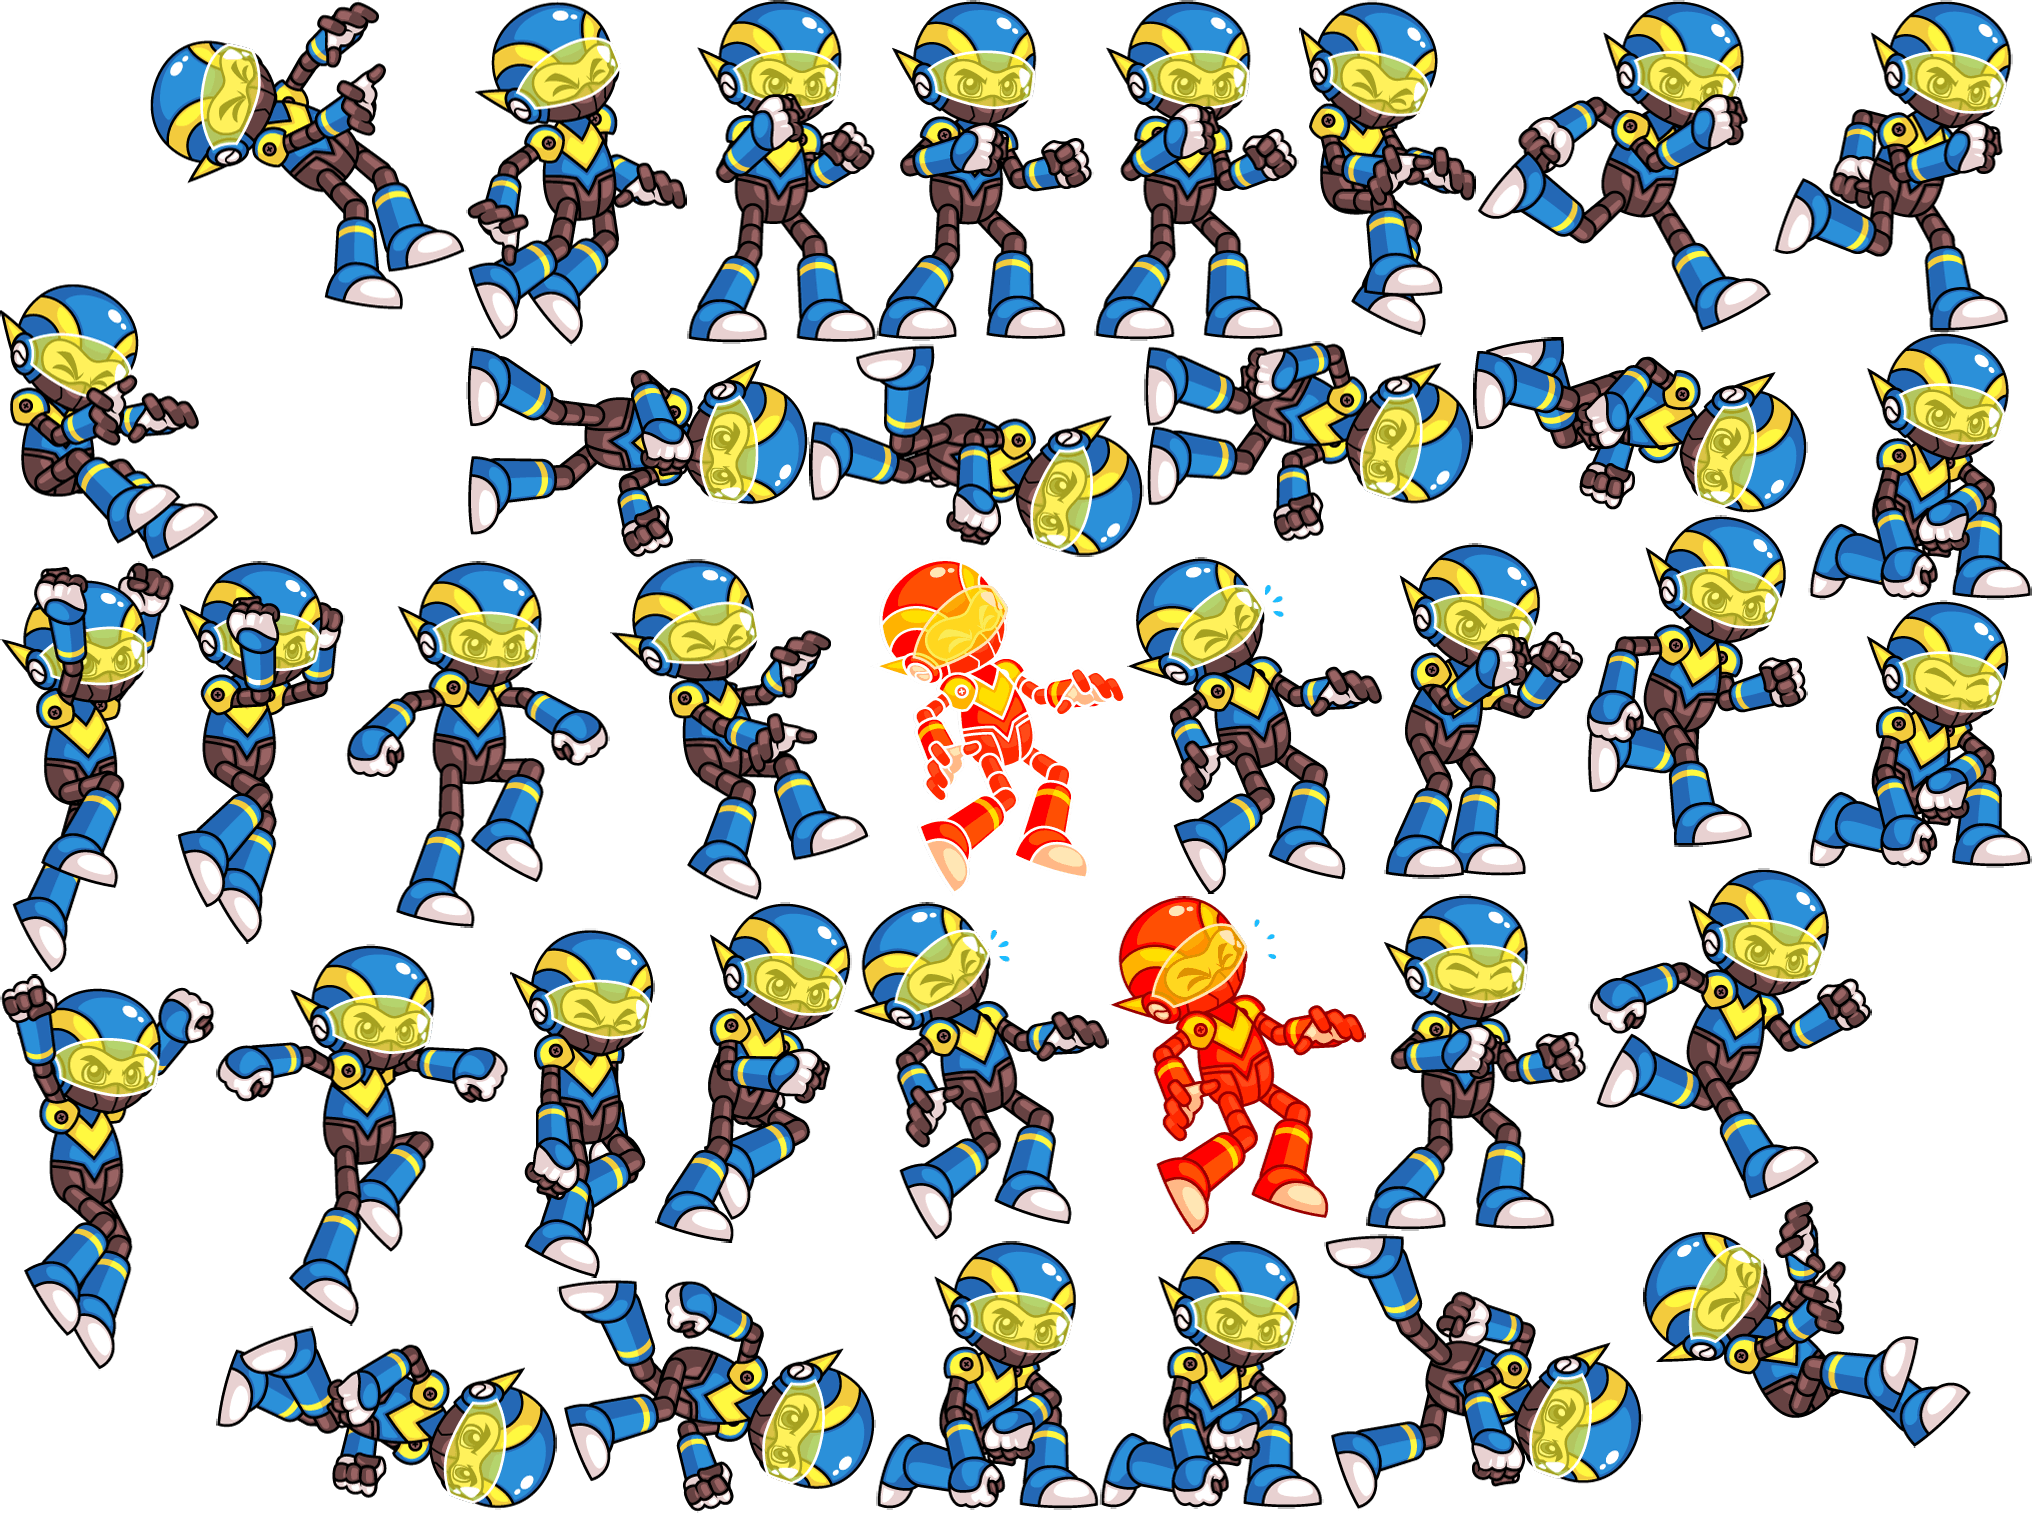
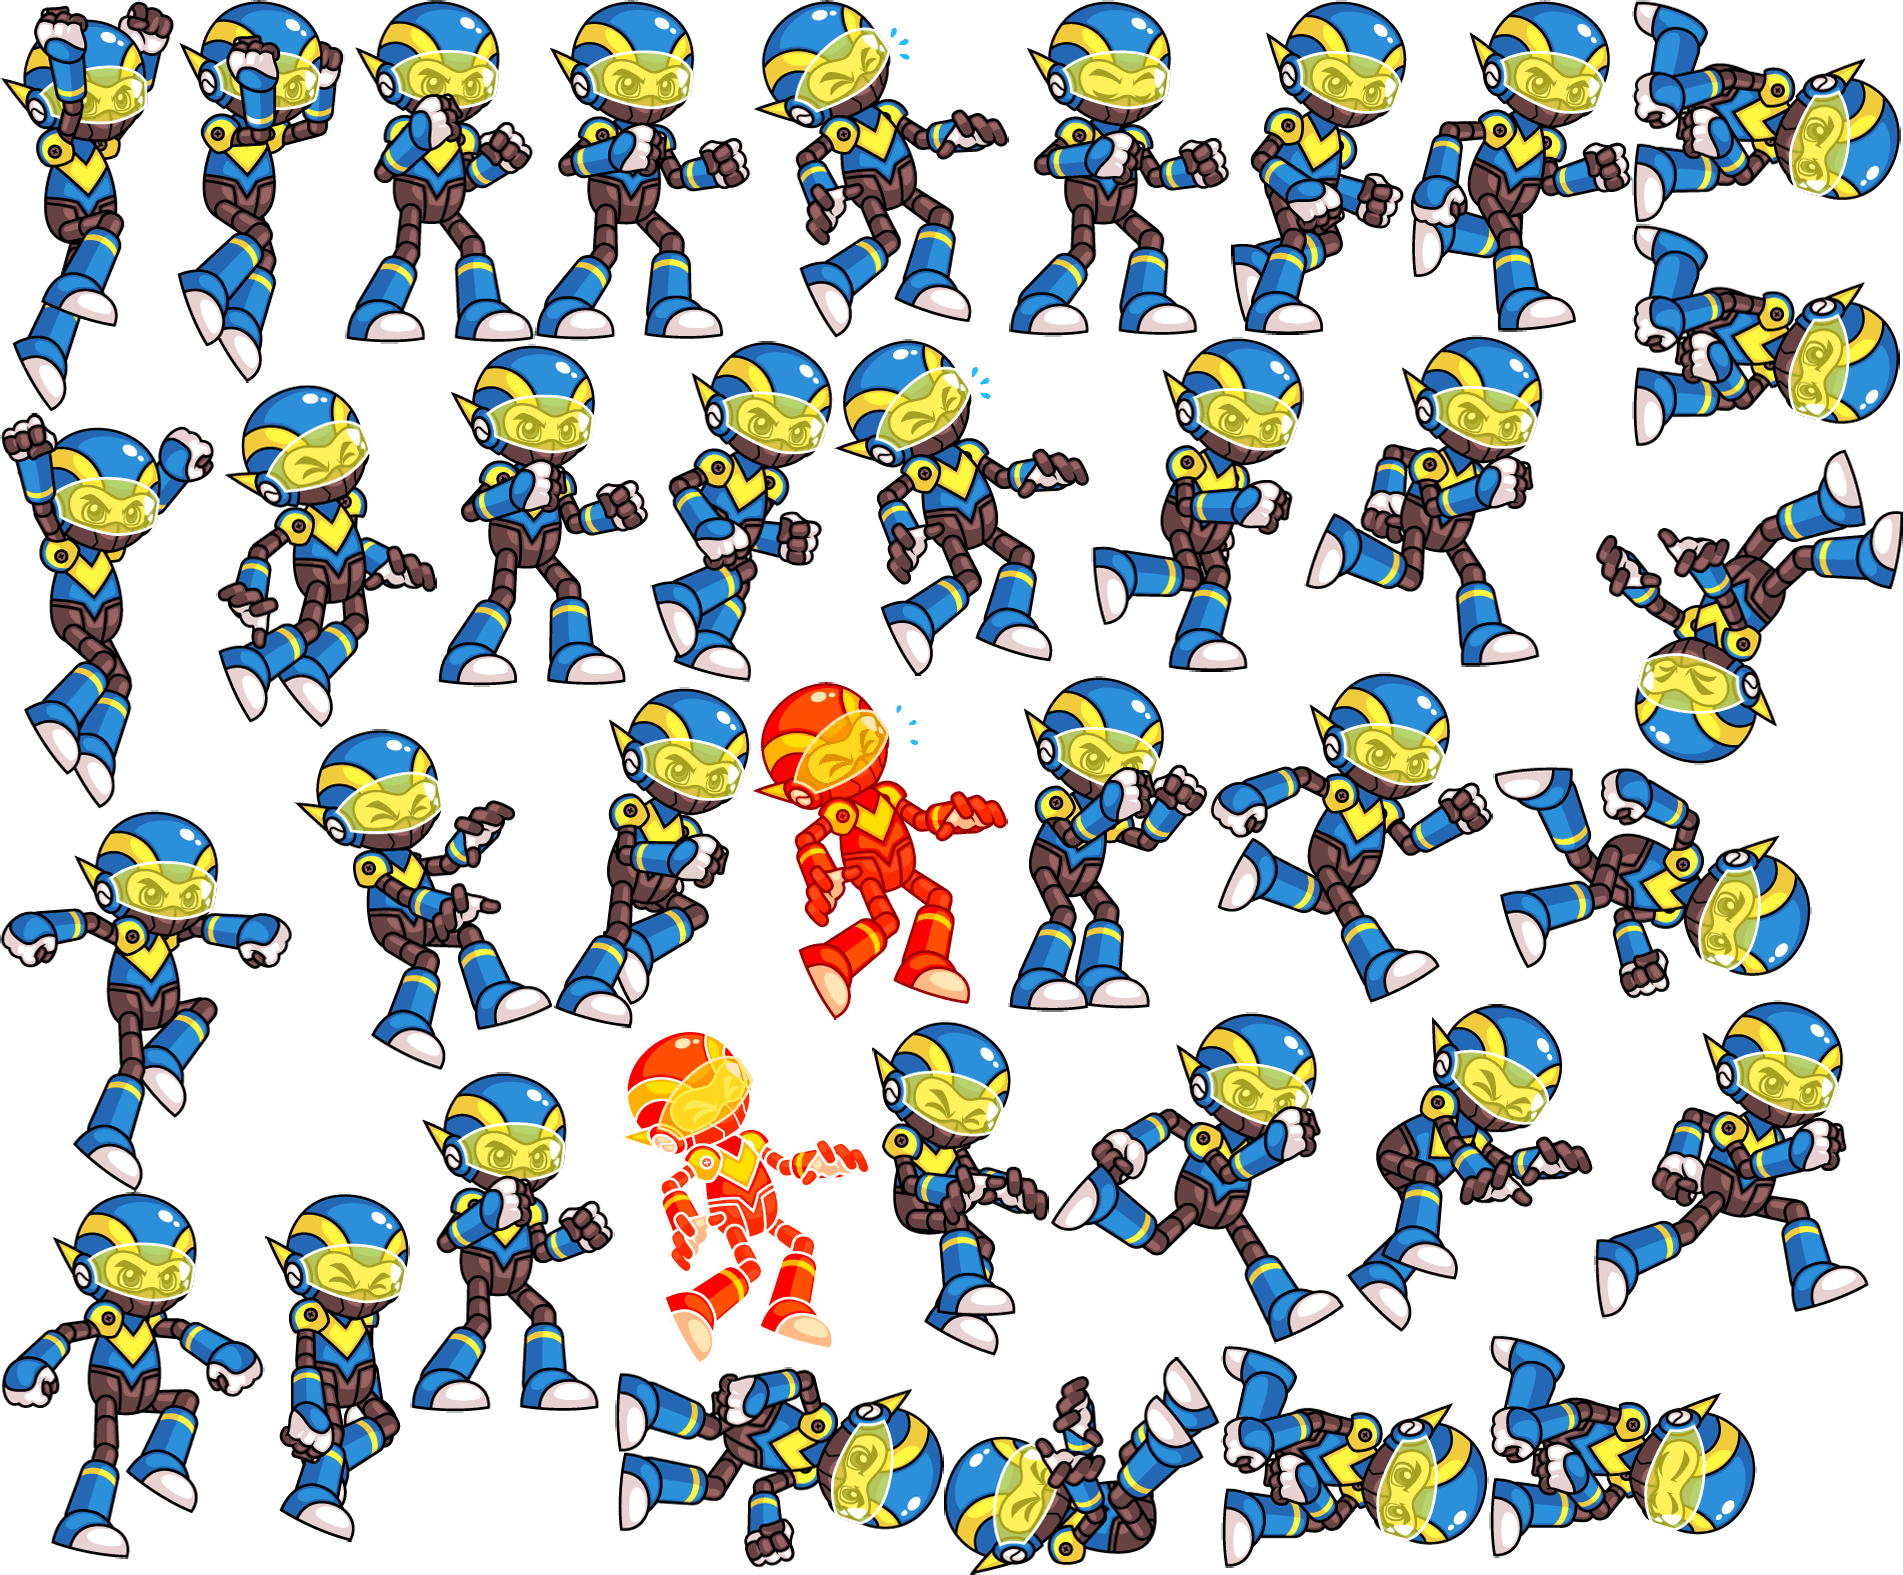
feat: actionState die

diff --git a/src/components/Game/adventures/Monster.ts b/src/components/Game/adventures/Monster.ts
@@ -46,6 +46,7 @@ export enum DrawState {
   A5 = 'a5',
   A6 = 'a6',
   Dash = 'dash',
+  Die = 'die',
 }
 
 const attackToDraw: {[k in AttackType]: DrawState} = {
@@ -157,7 +158,7 @@ export class AdventureMonster {
 
   private tickCount = 0
   private frameCount = 0
-  private frameStep = 5
+  // private frameStep = 5
   private baseState = DrawState.Stand
   private actionState: DrawState | undefined
   private onDrawLoop = () => {}
@@ -168,8 +169,10 @@ export class AdventureMonster {
     const sprite = this.getMonsterDraw()
 
     this.map.subscribe('tick', (e: CustomEvent<number>) => {
-      const animation = sheet.animations[this.actionState || this.baseState]
-      if (this.tickCount % this.frameStep === 0) {
+      const state = this.actionState || this.baseState
+      const animation = sheet.animations[state]
+      const framePerStep = (state === DrawState.Stand || state === DrawState.Die) ? 8 : 5
+      if (this.tickCount % framePerStep === 0) {
         if (this.frameCount >= animation.length) {
           this.frameCount = 0
           this.tickCount = 0
@@ -214,7 +217,7 @@ export class AdventureMonster {
     this.baseState = state
   }
 
-  changeActionState(state: DrawState) {
+  changeActionState(state: DrawState, onDone = () => {}) {
     // const curState = this.drawState
     // const _ = this.onDrawLoop
     // this.changeDrawState(state)
@@ -228,6 +231,7 @@ export class AdventureMonster {
         // clear action state
         this.actionState = undefined
         this.onDrawLoop = () => {}
+        onDone()
       }
     }
     
@@ -323,7 +327,7 @@ export class AdventureMonster {
   }
 
   remove() {
-    this.imageContainer.parent.removeChild(this.imageContainer)
+    this.changeActionState(DrawState.Die, () => this.imageContainer.parent.removeChild(this.imageContainer))
   }
 
   private getRangeDraw(): Graphics {

diff --git a/src/components/Game/hooks/useAdventure.ts b/src/components/Game/hooks/useAdventure.ts
@@ -1,9 +1,8 @@
 import { useEffect, useState } from 'react'
 
 import { Adventures } from '../adventures/Adventures'
-import { ViewportMap, xyToPosition } from '../ViewportMap'
+import { ViewportMap } from '../ViewportMap'
 import { SendAllFunc, SendToFunc } from './useWebRTCConnects'
-import { MonsterType } from '../adventures/types'
 import { Assets } from 'pixi.js'
 
 export function useAdventure(c: HTMLCanvasElement | null, sendAll: SendAllFunc, sendTo: SendToFunc): [Adventures | undefined] {
